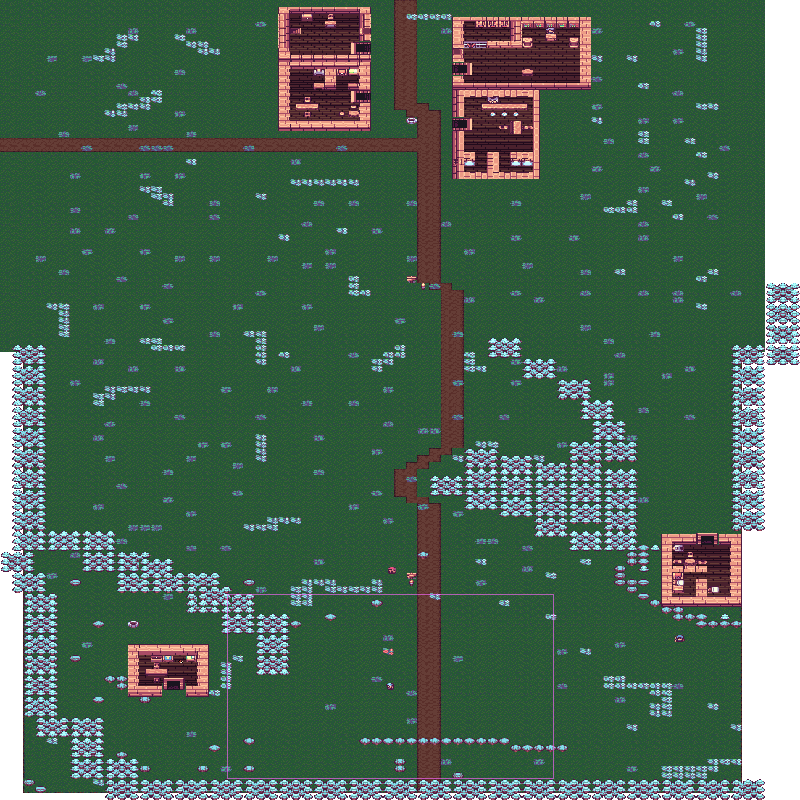
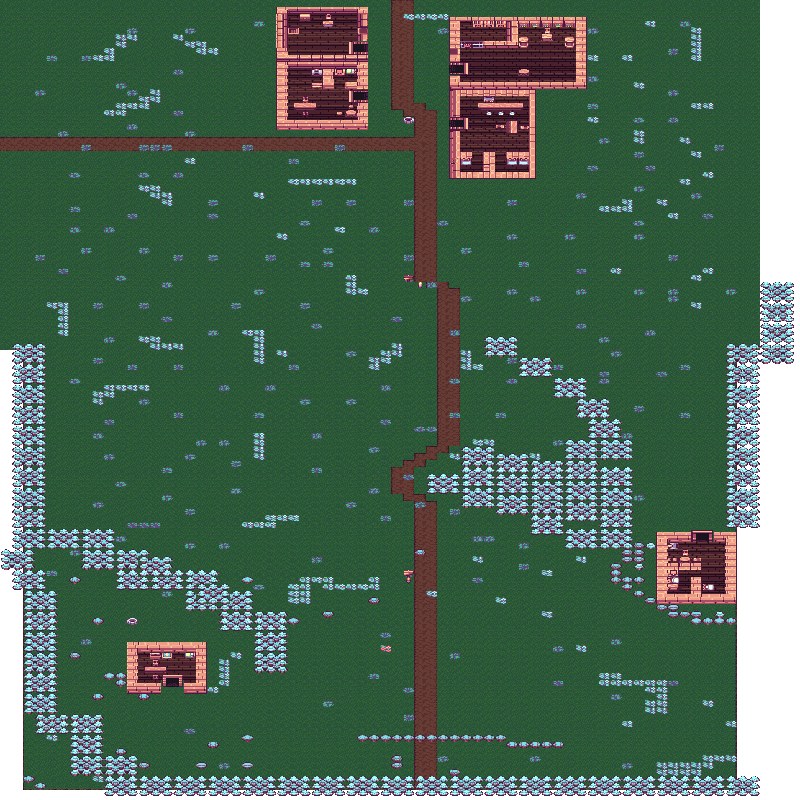
Minor map capture improvements.

diff --git a/Scripts/Tools/MapCapture.cs b/Scripts/Tools/MapCapture.cs
@@ -1,5 +1,6 @@
 using System.Collections.Generic;
 using System.Linq;
+using ArkhamHunters.Scripts;
 using Godot;
 
 [Tool]
@@ -8,7 +9,6 @@ public partial class MapCapture : EditorScript
 {
     public override async void _Run()
     {
-        Dictionary<ulong, bool> WasVisible = [];
         var mapCaptureViewport = new SubViewport
         {
             Size = new Vector2I(800, 800),
@@ -22,7 +22,14 @@ public partial class MapCapture : EditorScript
         var sceneRect = new Rect2();
         sceneDup.FindChildren("*", recursive: true).OfType<CollisionShape2D>().ToList().ForEach(n =>
         {
-            WasVisible[n.GetInstanceId()] = n.Visible;
+            n.Visible = false;
+        });
+        sceneDup.FindChildren("*", recursive: true).OfType<Camera2D>().ToList().ForEach(n =>
+        {
+            n.Visible = false;
+        });
+        sceneDup.FindChildren("*", recursive: true).OfType<CharacterBody2D>().ToList().ForEach(n =>
+        {
             n.Visible = false;
         });
         sceneDup.FindChildren("*", recursive: true).ToList().ForEach(n =>
